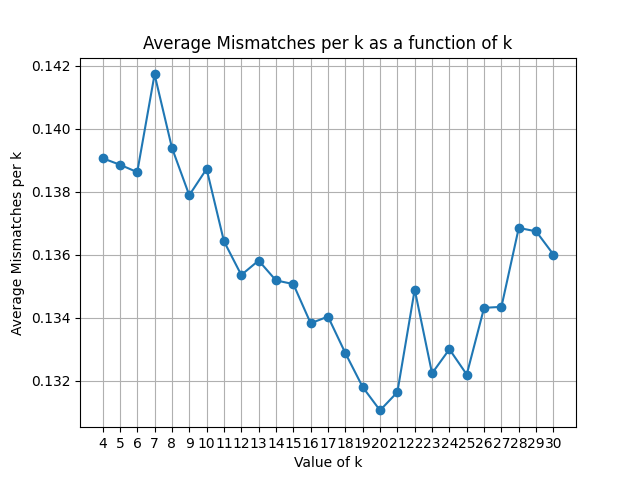
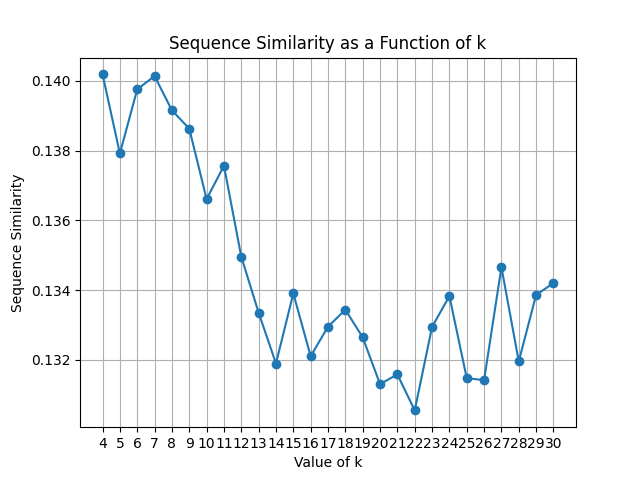
Update

diff --git a/simulations/avg_mismatch/main.py b/simulations/avg_mismatch/main.py
@@ -168,7 +168,7 @@ def compute_mismatch_average_for_k(sequence, k):
     mismatch_counts = find_mismatched_kmers(mutated_reads, k, w, minimizer_table, rymer_table)
 
     # Calculate the average excluding zero mismatches
-    non_zero_mismatches = [count for count in mismatch_counts if count > 0]
+    non_zero_mismatches = [count for count in mismatch_counts]
     average_mismatch = sum(non_zero_mismatches) / len(non_zero_mismatches) if non_zero_mismatches else 0
 
     return average_mismatch
@@ -184,14 +184,15 @@ average_mismatches = []
 for k in k_values:
     print(k)
     avg_mismatch = compute_mismatch_average_for_k(sequence, k)
-    average_mismatches.append(avg_mismatch)
+    avg_mismatch_normalized = avg_mismatch / k  # Divide by k
+    average_mismatches.append(avg_mismatch_normalized)
 
 # Plotting the results
 plt.plot(k_values, average_mismatches, marker='o', linestyle='-')
 plt.xticks(k_values)  # This sets the x-axis ticks to your specific k_values
 plt.xlabel('Value of k')
-plt.ylabel('Average Mismatches')
-plt.title('Average Mismatches as a function of k')
+plt.ylabel('Sequence Similarity')
+plt.title('Sequence Similarity as a Function of k')
 plt.grid(True)
 plt.savefig("mismatch.png")
 plt.close()
